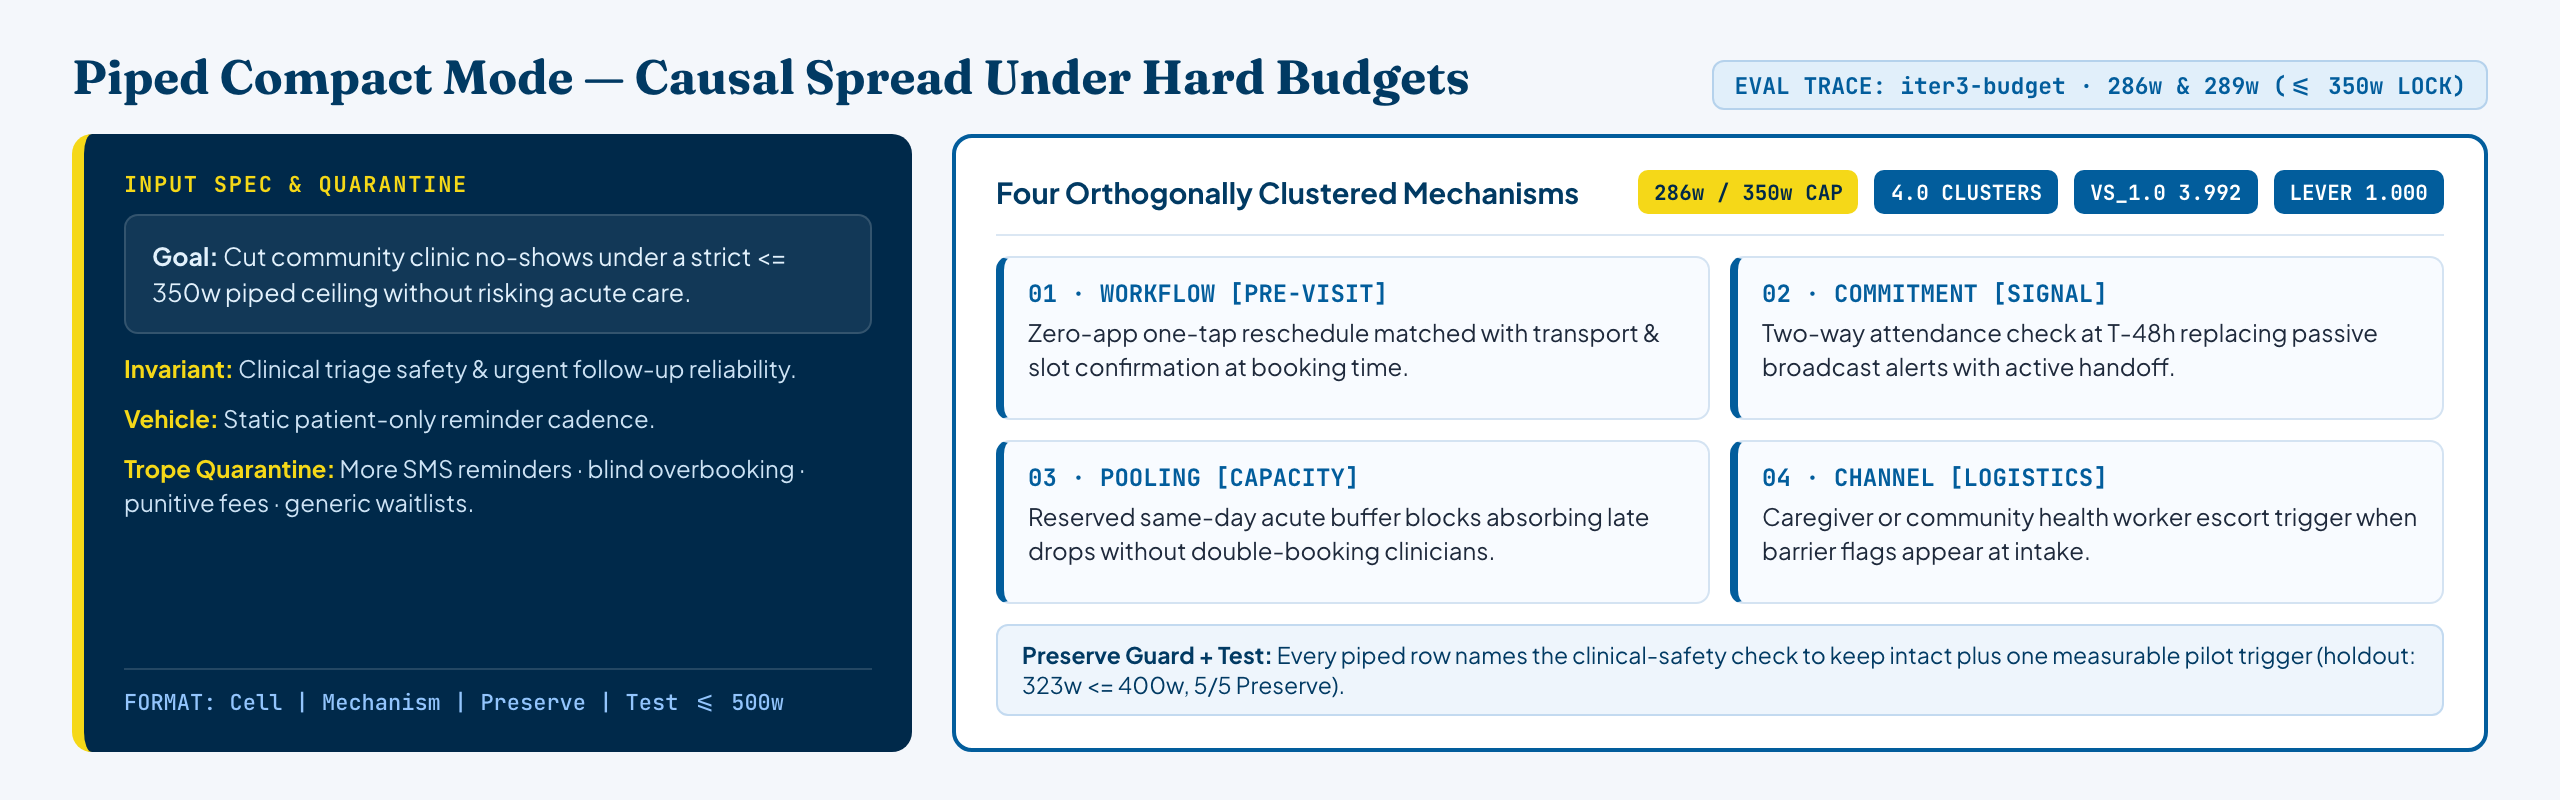
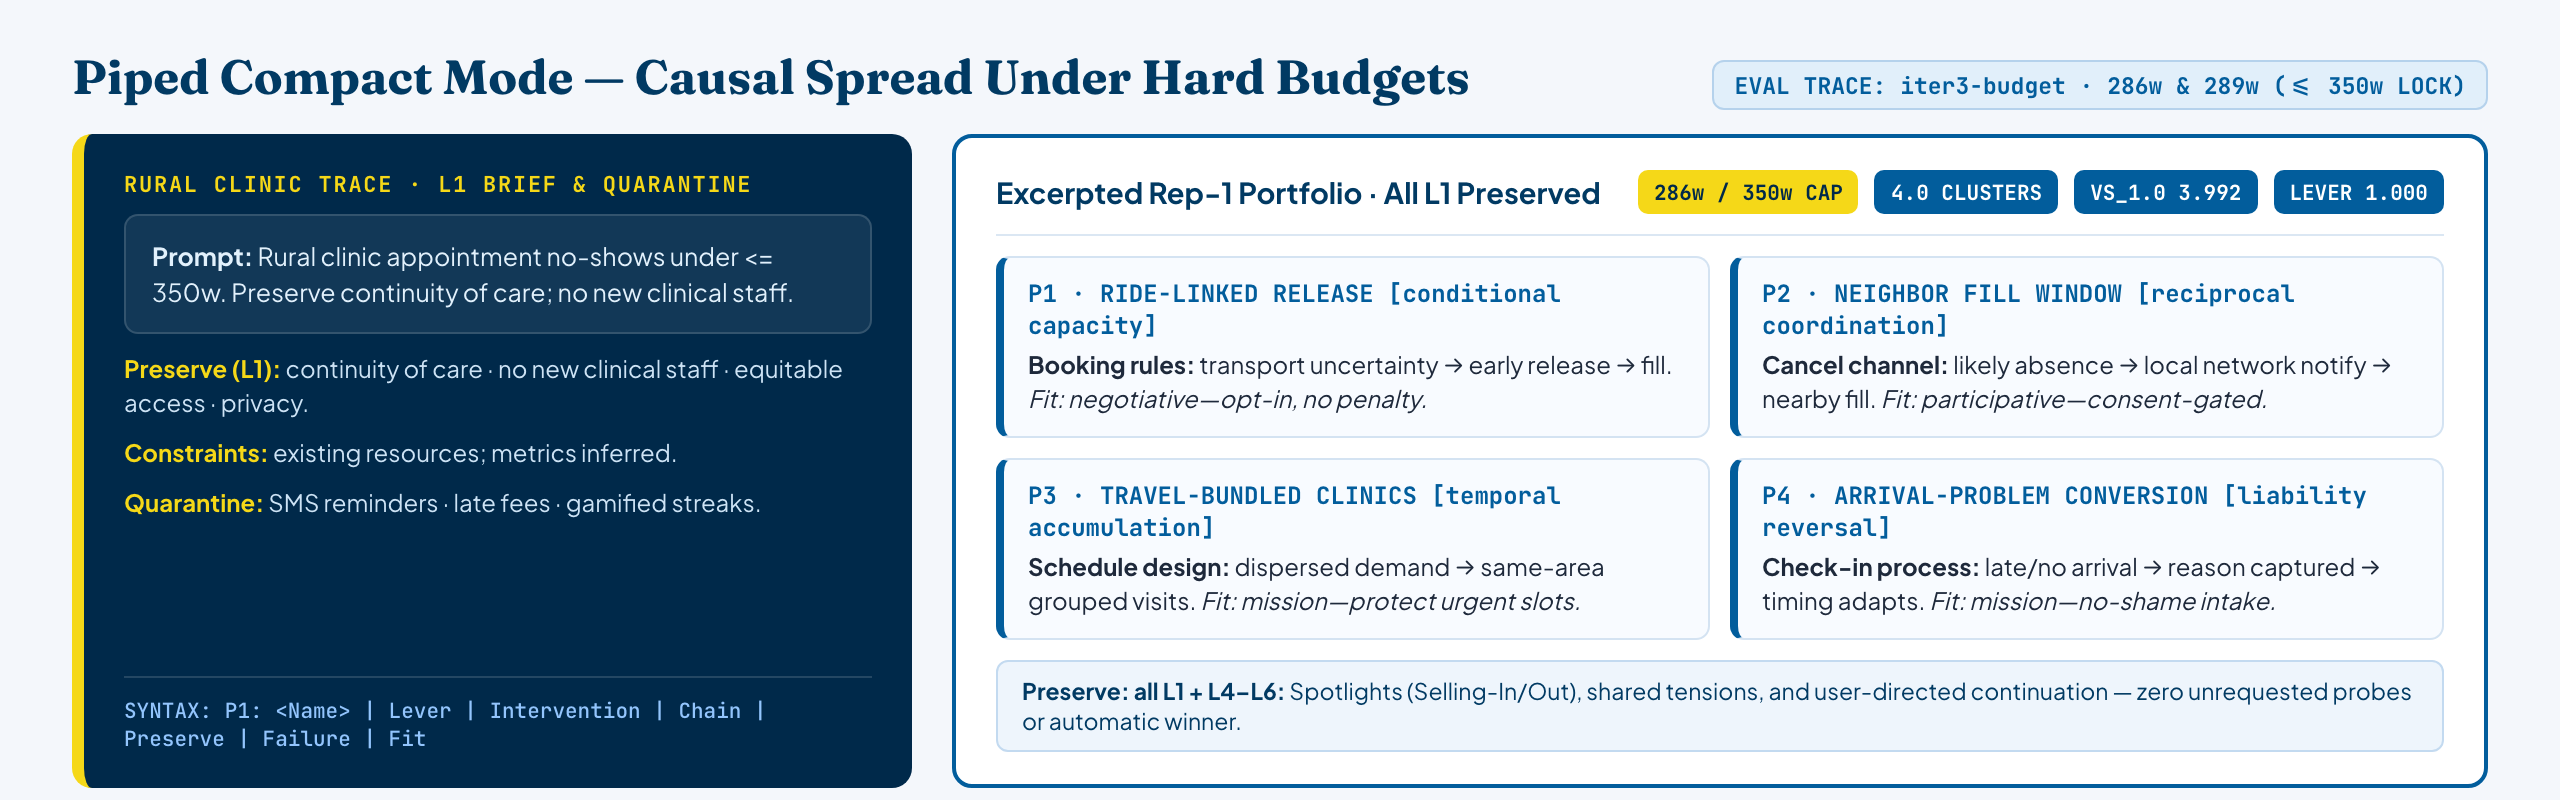
fix: resolve Task 10 review findings across README, PNGs, SVG, and tests

diff --git a/tools/build_branding.py b/tools/build_branding.py
@@ -203,7 +203,7 @@ def build_banner_html() -> str:
       <div class="card">
         <div class="card-kicker mono">02 · DE-COLLAPSE</div>
         <div class="card-title">Trope Quarantine</div>
-        <div class="card-desc">Bans a domain's default cliches first, then dispatches Rickards' 7 cells plus clustered variety checks.</div>
+        <div class="card-desc">Bans a domain's top 2–3 cliches first, then dispatches 7 mechanism cells plus clustered variety checks.</div>
       </div>
       <div class="card">
         <div class="card-kicker mono">03 · BUDGET LOCK</div>
@@ -361,7 +361,7 @@ def build_comparison_html() -> str:
           </div>
           <div class="row">
             <div class="tag mono">MISSING INVARIANTS</div>
-            <div class="copy">Format control failed to name what must survive; public holdout scored <strong>0.0 lever coverage</strong>.</div>
+            <div class="copy">Format control omitted Preserve checks and scored <strong>0.0 causal lever coverage</strong> on holdout.</div>
           </div>
           <div class="row">
             <div class="tag mono">BUDGET SPILLOVER</div>
@@ -381,7 +381,7 @@ def build_comparison_html() -> str:
         <div class="rows">
           <div class="row">
             <div class="tag mono">TROPE QUARANTINE</div>
-            <div class="copy">Bans the domain's first 3–5 cliches in negative space before dispatching Rickards' 7 mechanism cells.</div>
+            <div class="copy">Bans the domain's top 2–3 cliches in negative space before dispatching 7 orthogonal mechanism cells.</div>
           </div>
           <div class="row">
             <div class="tag mono">CLUSTERED VARIETY</div>
@@ -525,8 +525,8 @@ def build_architecture_html() -> str:
       <div class="arrow">→</div>
       <div class="stage">
         <div class="stage-num mono">STAGE 03 · LENSES</div>
-        <div class="stage-title">Rickards Dispatch</div>
-        <div class="stage-body">Runs Quick single-cell jump, 2×2 Orthogonal Matrix, 7 Mechanism Cells &amp; Metaphor Strip.</div>
+        <div class="stage-title">Causal Dispatch</div>
+        <div class="stage-body">Runs 3-cell Quick dispatch (System Dynamics + 2 cells), 2×2 Axes &amp; Metaphor Strip.</div>
         <div class="stage-ref mono">innovation-lenses.md</div>
       </div>
       <div class="arrow">→</div>
@@ -534,7 +534,7 @@ def build_architecture_html() -> str:
         <div class="stage-num mono">STAGE 04 · FLOOR</div>
         <div class="stage-title">Clustered Variety</div>
         <div class="stage-body">Verbalized Sampling diversity floor + Preserve check guaranteeing non-negotiable survival.</div>
-        <div class="stage-ref mono">deep-mode + evidence</div>
+        <div class="stage-ref mono">lenses + output-contract</div>
       </div>
       <div class="arrow">→</div>
       <div class="stage">
@@ -661,6 +661,7 @@ def build_quick_demo_html() -> str:
       border-radius: 5px;
       background: #025d9c;
       color: #ffffff;
+      white-space: nowrap;
     }
     .chip.gold {
       background: #f5d818;
@@ -708,23 +709,23 @@ def build_quick_demo_html() -> str:
     <div class="grid">
       <div class="left">
         <div>
-          <div class="kicker mono">INPUT SPEC &amp; QUARANTINE</div>
+          <div class="kicker mono">RURAL CLINIC TRACE · L1 BRIEF &amp; QUARANTINE</div>
           <div class="prompt-box">
-            <strong>Goal:</strong> Cut community clinic no-shows under a strict &lt;= 350w piped ceiling without risking acute care.
+            <strong>Prompt:</strong> Rural clinic appointment no-shows under &lt;= 350w. Preserve continuity of care; no new clinical staff.
           </div>
           <div class="spec-list">
-            <div><strong>Invariant:</strong> Clinical triage safety &amp; urgent follow-up reliability.</div>
-            <div><strong>Vehicle:</strong> Static patient-only reminder cadence.</div>
-            <div><strong>Trope Quarantine:</strong> More SMS reminders · blind overbooking · punitive fees · generic waitlists.</div>
+            <div><strong>Preserve (L1):</strong> continuity of care · no new clinical staff · equitable access · privacy.</div>
+            <div><strong>Constraints:</strong> existing resources; metrics inferred.</div>
+            <div><strong>Quarantine:</strong> SMS reminders · late fees · gamified streaks.</div>
           </div>
         </div>
-        <div class="mono" style="font-size:11px; color:#93c5fd; border-top:1px solid rgba(255,255,255,0.14); padding-top:9px;">
-          FORMAT: Cell | Mechanism | Preserve | Test &lt;= 500w
+        <div class="mono" style="font-size:10.5px; color:#93c5fd; border-top:1px solid rgba(255,255,255,0.14); padding-top:9px;">
+          SYNTAX: P1: &lt;Name&gt; | Lever | Intervention | Chain | Preserve | Failure | Fit
         </div>
       </div>
       <div class="right">
         <div class="telemetry">
-          <div class="telemetry-title">Four Orthogonally Clustered Mechanisms</div>
+          <div class="telemetry-title">Excerpted Rep-1 Portfolio · All L1 Preserved</div>
           <div class="chips mono">
             <span class="chip gold">286w / 350w CAP</span>
             <span class="chip">4.0 CLUSTERS</span>
@@ -734,24 +735,24 @@ def build_quick_demo_html() -> str:
         </div>
         <div class="options">
           <div class="opt">
-            <div class="opt-head mono">01 · WORKFLOW [PRE-VISIT]</div>
-            <div class="opt-body">Zero-app one-tap reschedule matched with transport &amp; slot confirmation at booking time.</div>
+            <div class="opt-head mono">P1 · RIDE-LINKED RELEASE [conditional capacity]</div>
+            <div class="opt-body"><strong>Booking rules:</strong> transport uncertainty → early release → fill. <em>Fit: negotiative—opt-in, no penalty.</em></div>
           </div>
           <div class="opt">
-            <div class="opt-head mono">02 · COMMITMENT [SIGNAL]</div>
-            <div class="opt-body">Two-way attendance check at T-48h replacing passive broadcast alerts with active handoff.</div>
+            <div class="opt-head mono">P2 · NEIGHBOR FILL WINDOW [reciprocal coordination]</div>
+            <div class="opt-body"><strong>Cancel channel:</strong> likely absence → local network notify → nearby fill. <em>Fit: participative—consent-gated.</em></div>
           </div>
           <div class="opt">
-            <div class="opt-head mono">03 · POOLING [CAPACITY]</div>
-            <div class="opt-body">Reserved same-day acute buffer blocks absorbing late drops without double-booking clinicians.</div>
+            <div class="opt-head mono">P3 · TRAVEL-BUNDLED CLINICS [temporal accumulation]</div>
+            <div class="opt-body"><strong>Schedule design:</strong> dispersed demand → same-area grouped visits. <em>Fit: mission—protect urgent slots.</em></div>
           </div>
           <div class="opt">
-            <div class="opt-head mono">04 · CHANNEL [LOGISTICS]</div>
-            <div class="opt-body">Caregiver or community health worker escort trigger when barrier flags appear at intake.</div>
+            <div class="opt-head mono">P4 · ARRIVAL-PROBLEM CONVERSION [liability reversal]</div>
+            <div class="opt-body"><strong>Check-in process:</strong> late/no arrival → reason captured → timing adapts. <em>Fit: mission—no-shame intake.</em></div>
           </div>
         </div>
         <div class="preserve-bar">
-          <strong>Preserve Guard + Test:</strong> Every piped row names the clinical-safety check to keep intact plus one measurable pilot trigger (holdout: 323w &lt;= 400w, 5/5 Preserve).
+          <strong>Preserve: all L1 + L4–L6:</strong> Spotlights (Selling-In/Out), shared tensions, and user-directed continuation — zero unrequested probes or automatic winner.
         </div>
       </div>
     </div>

diff --git a/tests/test_readme_assets.py b/tests/test_readme_assets.py
@@ -43,13 +43,26 @@ class ReadmeVisualAssetsTests(unittest.TestCase):
             self.assertNotIn("http://", stripped, f"{name} must not fetch remote assets")
             self.assertNotIn("https://", stripped, f"{name} must not fetch remote assets")
 
+            view_parts = root.attrib["viewBox"].replace(",", " ").split()
+            self.assertEqual(len(view_parts), 4, f"{name} must have 4-number viewBox")
+            vb_w, vb_h = float(view_parts[2]), float(view_parts[3])
+
             rects = [elem for elem in root.iter() if elem.tag.endswith("rect")]
             self.assertTrue(
-                any(elem.attrib.get("fill") not in (None, "", "none", "transparent") for elem in rects),
-                f"{name} must include an opaque background <rect> for light/dark GitHub legibility",
+                any(
+                    elem.attrib.get("fill") not in (None, "", "none", "transparent")
+                    and elem.attrib.get("x", "0") in ("0", "0px")
+                    and elem.attrib.get("y", "0") in ("0", "0px")
+                    and float(elem.attrib.get("width", "0")) >= vb_w
+                    and float(elem.attrib.get("height", "0")) >= vb_h
+                    for elem in rects
+                ),
+                f"{name} must include a full-canvas opaque backdrop <rect> for light/dark GitHub legibility",
             )
             for forbidden in FORBIDDEN_ASSET_STRINGS:
                 self.assertNotIn(forbidden, raw, f"{name} contains forbidden string: {forbidden}")
+            for leak in ("/Users/", "/home/", "C:\\"):
+                self.assertNotIn(leak, raw, f"{name} contains local filesystem path leak: {leak}")
 
     def test_readme_embeds_verified_v2_assets_and_reports(self) -> None:
         readme = (ROOT / "README.md").read_text(encoding="utf-8")
@@ -71,6 +84,11 @@ class ReadmeVisualAssetsTests(unittest.TestCase):
             "Piped Compact",
         ):
             self.assertIn(required, readme, f"README.md missing v2 reference: {required}")
+
+        for guarded in ("README.md", "tools/build_branding.py"):
+            text = (ROOT / guarded).read_text(encoding="utf-8")
+            for leak in ("/Users/", "/home/", "C:\\"):
+                self.assertNotIn(leak, text, f"{guarded} contains local path leak: {leak}")
 
 
 if __name__ == "__main__":

diff --git a/README.md b/README.md
@@ -30,7 +30,7 @@ Standard LLM brainstorming suffers from **post-training typicality bias**: RLHF 
 Instead of unstructured brainstorming lists, `systematic-innovation` enforces:
 - **Invariant vs. Vehicle Separation:** Distinguishes non-negotiable survival constraints from replaceable legacy delivery habits before ideation begins.
 - **Negative-Space Trope Quarantine:** Explicitly names and bans the domain's top modal clichés in negative space so exploration moves beyond surface phrasing swaps.
-- **Orthogonal Causal Dispatch:** Explores Rickards' seven mechanism cells, `2×2` forcing matrices, and metaphor stripping ([`references/innovation-lenses.md`](skills/systematic-innovation/references/innovation-lenses.md)) under the single canonical authority of [`skills/systematic-innovation/SKILL.md`](skills/systematic-innovation/SKILL.md).
+- **Orthogonal Causal Dispatch:** Explores seven project-original Reasoning Cells, `2×2` forcing matrices, and metaphor stripping ([`references/innovation-lenses.md`](skills/systematic-innovation/references/innovation-lenses.md)) under the single canonical authority of [`skills/systematic-innovation/SKILL.md`](skills/systematic-innovation/SKILL.md).
 - **Clustered Variety & Preservation Floor:** Enforces distinct causal clusters across ideas and attaches explicit preservation checks to every option.
 - **Upfront Refusal Gate:** Screens out covert evasion or unsafe bypass requests before generating any candidate portfolio.
 
@@ -69,7 +69,7 @@ The canonical router in [`skills/systematic-innovation/SKILL.md`](skills/systema
 | Module | Word Count | Purpose |
 | --- | ---: | --- |
 | [`skills/systematic-innovation/SKILL.md`](skills/systematic-innovation/SKILL.md) | `1,640` | Canonical router, safety refusal gate, anti-collapse core loop, and mode contracts |
-| [`skills/systematic-innovation/references/innovation-lenses.md`](skills/systematic-innovation/references/innovation-lenses.md) | `779` | Rickards' seven mechanism cells, `2×2` orthogonal axes, and metaphor stripping |
+| [`skills/systematic-innovation/references/innovation-lenses.md`](skills/systematic-innovation/references/innovation-lenses.md) | `779` | Seven project-original Reasoning Cells, `2×2` orthogonal axes, and metaphor stripping |
 | [`skills/systematic-innovation/references/deep-mode.md`](skills/systematic-innovation/references/deep-mode.md) | `541` | Multi-turn stakeholder discovery, boundary routing, and constraint elicitation |
 | [`skills/systematic-innovation/references/output-contract.md`](skills/systematic-innovation/references/output-contract.md) | `1,223` | Standard, Deep, and **Piped Compact** formatting and word-budget allocation |
 | [`skills/systematic-innovation/references/evidence.md`](skills/systematic-innovation/references/evidence.md) | `1,144` | Empirical anti-collapse grounding, Vendi/Verbalized Sampling concepts, and Rickards alignment |
@@ -117,7 +117,15 @@ mkdir -p .agents/skills && ln -sfn "$PWD/skills/systematic-innovation" .agents/s
 
 # Claude Code (personal skills directory):
 mkdir -p "$HOME/.claude/skills" && ln -sfn "$PWD/skills/systematic-innovation" "$HOME/.claude/skills/systematic-innovation"
+
+# Antigravity / Cursor:
+mkdir -p "$HOME/.gemini/antigravity/skills" && ln -sfn "$PWD/skills/systematic-innovation" "$HOME/.gemini/antigravity/skills/systematic-innovation"
+mkdir -p .cursor/skills && ln -sfn "$PWD/skills/systematic-innovation" .cursor/skills/systematic-innovation
 ```
+
+### Direct Markdown Loading (Universal Fallback)
+
+For hosts without automated Agent Skills directory discovery, load [`skills/systematic-innovation/SKILL.md`](skills/systematic-innovation/SKILL.md) as active system/project instructions alongside its four progressive modules in [`skills/systematic-innovation/references/`](skills/systematic-innovation/references/) (`innovation-lenses.md`, `deep-mode.md`, `output-contract.md`, `evidence.md`).
 
 ### Repository Verification Commands
 
@@ -140,7 +148,7 @@ If you build upon the evaluation harness or progressive skill architecture, cite
 ```bibtex
 @software{systematic_innovation_2026,
   title  = {systematic-innovation: A Systems-Oriented Agent Skill and Evaluation Laboratory},
-  author = {Ferraz, Pedro},
+  author = {Systematic Innovation Contributors},
   year   = {2026},
   url    = {https://github.com/poferraz/systematic-innovation}
 }
